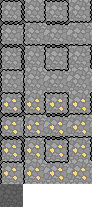
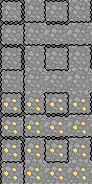
Updated the tile map loader to handle chunks for elements

diff --git a/src/equals7/Sprite.java b/src/equals7/Sprite.java
@@ -42,8 +42,8 @@ public class Sprite {
 		}
 	}
 
-	public BufferedImage[] loadStripImageArray(String fnm, int numberW,
-			int numberH) {
+	public BufferedImage[][] loadStripImageArray(String fnm, int numberW,
+			int numberH, int chunksW, int chunksH) {
 		if (numberH <= 0 || numberW <= 0) {
 			System.out.println("number <= 0; returning null");
 			return null;
@@ -54,31 +54,54 @@ public class Sprite {
 			System.out.println("Returning null");
 			return null;
 		}
+		int imWidth = stripIm.getWidth();
+		int imHeight = stripIm.getHeight();
+		
+		int chunks = (chunksW + chunksH) - 1;
 
-		int imWidth = stripIm.getWidth() / numberW;
-		int imHeight = stripIm.getHeight() / numberH;
+		int tileWidth = imWidth / (numberW * chunksW);
+		int tileHeight = imHeight / (numberH * chunksH);
+		// Example chunkH = 92 = 23 * 4;
+		int chunkH = tileWidth * numberW;
+		int chunkW = tileHeight * numberH;
 		int transparency = stripIm.getColorModel().getTransparency();
 
-		BufferedImage[] strip = new BufferedImage[numberW * numberH];
+		BufferedImage[][] strip = new BufferedImage[chunks][numberW * numberH];
 		Graphics2D stripGC;
 
 		// each BufferedImage from the strip file is stored in strip[]
 		int count = 0;
-		for (int h = 0; h < numberH; h++) {
-			for (int w = 0; w < numberW; w++) {
-				strip[count] = gc.createCompatibleImage(imWidth, imHeight,
-						transparency);
-				// create a graphics context
-				stripGC = strip[count].createGraphics();
-				// copy images
-				stripGC.drawImage(stripIm, 0, 0, imWidth, imHeight,
-						w * imWidth, h * imHeight, (w * imWidth) + imWidth,
-						(h * imHeight) + imHeight, null);
-				stripGC.dispose();
-				count++;
+		int chunkLocH = 0;
+		int chunkLocW = 0;
+		int topLeftImLocX = 0;
+		int topLeftImLocY = 0;
+		int bottomRightImLocX = 0;
+		int bottomRightImLocY = 0;
+		
+		for (int c = 0; c < chunks; c++) {
+			chunkLocW = chunkW * c;
+			chunkLocH = chunkH * c;
+			if (imWidth == chunkLocW ){
+				chunkLocW = 0;
+			}
+			count = 0;
+			for (int h = 0; h < numberH; h++) {
+				for (int w = 0; w < numberW; w++) {
+					strip[c][count] = gc.createCompatibleImage(tileWidth,
+							tileHeight, transparency);
+					// create a graphics context
+					topLeftImLocX = (w * tileWidth) + chunkLocW;
+					topLeftImLocY = (h * tileHeight) + chunkLocH;
+					bottomRightImLocX = ((w * tileWidth) + tileWidth) + chunkLocW;
+					bottomRightImLocY = ((h * tileHeight) + tileHeight) + chunkLocH;
+					stripGC = strip[c][count].createGraphics();
+					// copy images
+					stripGC.drawImage(stripIm, 0, 0, tileWidth, tileHeight, topLeftImLocX, topLeftImLocY, bottomRightImLocX, bottomRightImLocY, null);
+					stripGC.dispose();
+					count++;
+				}
 			}
 		}
-
 		return strip;
 	} // end of loadStripImageArray( )
 }

diff --git a/src/equals7/Map.java b/src/equals7/Map.java
@@ -8,8 +8,11 @@ public class Map {
 	private int width = 43;
 	private int height = 43;
 	private int[][] data = new int[height][width];
+	private int[][] orentation = new int[height][width];
 	private static int TILE_SIZE = 23;
-	BufferedImage[] image;
+	BufferedImage[][] image;
+	BufferedImage clearImage;
+	public static int CLEAR = 2;
 
 	public Map(Game game) {
 		// for loop here
@@ -23,19 +26,20 @@ public class Map {
 		 */
 		Random generator = new Random();
 
-		int randomNumber = 17;
+		int randomNumber = 3;
 
 		for (int y = 0; y < height; y++) {
 			for (int x = 0; x < width; x++) {
-				randomNumber = generator.nextInt(2);
-
-				data[y][x] = 15 + randomNumber;
+				randomNumber = generator.nextInt(3);
+				
+				data[y][x] = randomNumber;
 			}
 		}
 		doubleCheck();
 
 		Sprite sprite = new Sprite();
-		image = sprite.loadStripImageArray("images/imageMap.jpg", 5, 4);
+		image = sprite.loadStripImageArray("images/imageMap.jpg", 4, 4, 1, 2);
+		clearImage = sprite.loadImage("images/darkFloorStone.jpg");
 	}
 
 	public void doubleCheck() {
@@ -45,35 +49,35 @@ public class Map {
 		int left = 2;
 		int right = 4;
 		int bottom = 8;
-		int clear = 16;
+
 
 		for (int y = 0; y < height; y++) {
 			for (int x = 0; x < width; x++) {
 				total = 0;
-				if (data[y][x] != clear) {
+				if (data[y][x] != CLEAR) {
 
 					if (y != 0) {
-						if (data[y - 1][x] < clear) {
+						if (data[y - 1][x] < CLEAR) {
 							total += top;
 						}
 					}
 					if (y < height - 1) {
-						if (data[y + 1][x] < clear) {
+						if (data[y + 1][x] < CLEAR) {
 							total += bottom;
 						}
 					}
 
 					if (x < width - 1) {
-						if (data[y][x + 1] < clear) {
+						if (data[y][x + 1] < CLEAR) {
 							total += right;
 						}
 					}
 					if (x != 0) {
-						if (data[y][x - 1] < clear) {
+						if (data[y][x - 1] < CLEAR) {
 							total += left;
 						}
 					}
-					data[y][x] = total;
+					orentation[y][x] = total;
 				}
 			}
 		}
@@ -84,10 +88,15 @@ public class Map {
 
 		for (int y = 0; y < height; y++) {
 			for (int x = 0; x < width; x++) {
-				g.drawImage(image[data[y][x]], x * TILE_SIZE, y * TILE_SIZE,
-						null);
-				// g.drawImage(image, locationX, locationY, x + TILE_SIZE, y +
-				// TILE_SIZE, 0, 0, 23, 23, null);
+				
+				if (data[y][x] == CLEAR){
+					g.drawImage(clearImage, x * TILE_SIZE, y * TILE_SIZE,
+							null);
+				}else{
+					g.drawImage(image[data[y][x]][orentation[y][x]], x * TILE_SIZE, y * TILE_SIZE,
+							null);
+				}
+				
 			}
 		}
 	}
